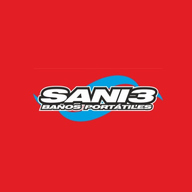
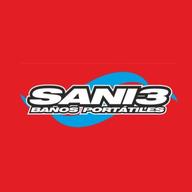
Add files via upload

Changed region(s): [[0.0938, 0.3438, 0.9375, 0.6875]]

diff --git a/index.html b/index.html
@@ -236,10 +236,10 @@
 <div id="fatalErrorBanner"></div>
 
 <div class="topbar">
-  <img src="logo.png" alt="Sani3" style="height:44px; display:block; margin-bottom:10px;">
-  <input id="companyName" placeholder="Nombre de la empresa" />
-  <div class="sub" id="todayLabel"></div>
-  <div class="sub" style="margin-top:8px;"><span class="conn-dot" id="connDot"></span><span id="connLabel">Sin conectar al backend</span></div>
+  <img src="logo.png" alt="Sani3" style="width:100%; max-width:320px; height:auto; display:block; margin:0 auto 10px;">
+  <input id="companyName" placeholder="Nombre de la empresa" style="display:none;" />
+  <div class="sub" id="todayLabel" style="text-align:center;"></div>
+  <div class="sub" style="margin-top:8px; text-align:center;"><span class="conn-dot" id="connDot"></span><span id="connLabel">Sin conectar al backend</span></div>
 </div>
 
 <main>
